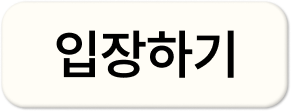
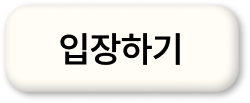
Design: Update auth and login assets, fix ListTile splash bug

Changed region(s): [[0.168, 0.2621, 0.812, 0.699], [0.0, 0.0583, 1.0, 0.9903], [0.924, 0.0291, 0.952, 0.0583]]

diff --git a/lib/screens/auth/family_group_list_screen.dart b/lib/screens/auth/family_group_list_screen.dart
@@ -90,18 +90,16 @@ class _FamilyGroupListScreenState extends State<FamilyGroupListScreen> {
                         child: SvgPicture.asset('assets/auth/family_group/group_box_1.svg', fit: BoxFit.fill),
                       ),
                       Positioned(
-                        right: 16 * wScale, // 오른쪽 여백 조절
+                        right: 20 * wScale,
                         child: GestureDetector(
                           onTap: () {
                             Navigator.push(context, MaterialPageRoute(builder: (_) => const GroupCreatedScreen()));
                           },
-                          // 버튼 크기를 키우시려면 아래 width와 height를 조절하세요.
-                          // 예: width: 100 * wScale, height: 42 * wScale
-                          child: SvgPicture.asset(
-                            'assets/auth/family_group/enter_text.svg', 
-                            width: 84 * wScale, 
-                            height: 35 * wScale,
-                            fit: BoxFit.fill, // 크기 변경 시 꽉 차게 늘어나도록 설정
+                          child: Image.asset(
+                            'assets/auth/family_group/enter_text.png', 
+                            width: 85 * wScale, 
+                            height: 85 * (112 / 292) * wScale, // 실제 PNG 비율(292x112)에 맞춰 높이 자동 계산 (약 32.2)
+                            fit: BoxFit.contain,
                           ),
                         ),
                       ),
@@ -133,8 +131,8 @@ class _FamilyGroupListScreenState extends State<FamilyGroupListScreen> {
                           },
                           child: Image.asset(
                             'assets/auth/family_group/enter_text.png', 
-                            width: 79 * wScale, 
-                            height: 79 * (112 / 292) * wScale, // 실제 PNG 비율(292x112)에 맞춰 높이 자동 계산 (약 32.2)
+                            width: 85 * wScale, 
+                            height: 85 * (112 / 292) * wScale, // 실제 PNG 비율(292x112)에 맞춰 높이 자동 계산 (약 32.2)
                             fit: BoxFit.contain,
                           ),
                         ),
@@ -196,7 +194,7 @@ class _FamilyGroupListScreenState extends State<FamilyGroupListScreen> {
                     
                     // 실제 텍스트 입력창 (투명)
                     Positioned(
-                      left: 20,
+                      left: 10,
                       right: 60 * wScale, // 우측에 확인 버튼이 있다고 가정하고 여백
                       bottom: 0 * wScale,
                       height: 48 * wScale,

diff --git a/lib/screens/profile/app_settings_screen.dart b/lib/screens/profile/app_settings_screen.dart
@@ -70,7 +70,6 @@ class _AppSettingsTile extends StatelessWidget {
     return Container(
       margin: const EdgeInsets.only(bottom: 10),
       decoration: BoxDecoration(
-        color: Colors.white,
         borderRadius: BorderRadius.circular(16),
         boxShadow: [
           BoxShadow(
@@ -80,7 +79,11 @@ class _AppSettingsTile extends StatelessWidget {
           ),
         ],
       ),
-      child: ListTile(
+      child: Material(
+        color: Colors.white,
+        borderRadius: BorderRadius.circular(16),
+        clipBehavior: Clip.antiAlias,
+        child: ListTile(
         contentPadding: const EdgeInsets.symmetric(horizontal: 16, vertical: 6),
         leading: CircleAvatar(
           backgroundColor: const Color(0xFFF0F5F1),
@@ -99,6 +102,7 @@ class _AppSettingsTile extends StatelessWidget {
         ),
         trailing: const Icon(Icons.chevron_right, color: Colors.black26),
         onTap: onTap,
+      ),
       ),
     );
   }

diff --git a/lib/screens/profile/profile_screen.dart b/lib/screens/profile/profile_screen.dart
@@ -282,7 +282,6 @@ class _SettingsTile extends StatelessWidget {
     return Container(
       margin: const EdgeInsets.only(bottom: 8),
       decoration: BoxDecoration(
-        color: Colors.white,
         borderRadius: BorderRadius.circular(14),
         boxShadow: [
           BoxShadow(
@@ -292,7 +291,11 @@ class _SettingsTile extends StatelessWidget {
           ),
         ],
       ),
-      child: ListTile(
+      child: Material(
+        color: Colors.white,
+        borderRadius: BorderRadius.circular(14),
+        clipBehavior: Clip.antiAlias,
+        child: ListTile(
         contentPadding: const EdgeInsets.symmetric(horizontal: 14, vertical: 2),
         leading: Icon(icon, color: Colors.black54),
         title: Text(
@@ -301,6 +304,7 @@ class _SettingsTile extends StatelessWidget {
         ),
         trailing: const Icon(Icons.chevron_right, color: Colors.black26),
         onTap: onTap,
+      ),
       ),
     );
   }

diff --git a/lib/screens/profile/visibility_settings_screen.dart b/lib/screens/profile/visibility_settings_screen.dart
@@ -96,11 +96,13 @@ class _RecordRow extends StatelessWidget {
     return Container(
       margin: const EdgeInsets.only(bottom: 8),
       padding: const EdgeInsets.symmetric(horizontal: 12, vertical: 4),
-      decoration: BoxDecoration(color: Colors.white, borderRadius: BorderRadius.circular(14), boxShadow: [
+      decoration: BoxDecoration(borderRadius: BorderRadius.circular(14), boxShadow: [
         BoxShadow(color: Colors.black.withValues(alpha: 0.04), blurRadius: 6, offset: const Offset(0, 2)),
       ]),
       child: Material(
-        color: Colors.transparent,
+        color: Colors.white,
+        borderRadius: BorderRadius.circular(14),
+        clipBehavior: Clip.antiAlias,
         child: ListTile(
           contentPadding: EdgeInsets.zero,
           leading: CircleAvatar(backgroundColor: iconColor.withValues(alpha: 0.15), child: Icon(icon, color: iconColor, size: 18)),

diff --git a/lib/screens/profile/app_info_screen.dart b/lib/screens/profile/app_info_screen.dart
@@ -137,7 +137,6 @@ class _InfoTile extends StatelessWidget {
     return Container(
       margin: const EdgeInsets.only(bottom: 10),
       decoration: BoxDecoration(
-        color: Colors.white,
         borderRadius: BorderRadius.circular(14),
         boxShadow: [
           BoxShadow(
@@ -147,7 +146,11 @@ class _InfoTile extends StatelessWidget {
           ),
         ],
       ),
-      child: ListTile(
+      child: Material(
+        color: Colors.white,
+        borderRadius: BorderRadius.circular(14),
+        clipBehavior: Clip.antiAlias,
+        child: ListTile(
         contentPadding: const EdgeInsets.symmetric(
           horizontal: 16,
           vertical: 3,
@@ -176,6 +179,7 @@ class _InfoTile extends StatelessWidget {
                 ),
               ),
         onTap: onTap,
+      ),
       ),
     );
   }

diff --git a/lib/screens/auth/login_screen.dart b/lib/screens/auth/login_screen.dart
@@ -175,7 +175,7 @@ class _SvgInputWidgetState extends State<_SvgInputWidget> {
             Align(
               alignment: Alignment.centerLeft,
               child: Padding(
-                padding: EdgeInsets.only(left: 5 * widget.wScale), // 안내 텍스트 조절 위치 패딩값 튜닝
+                padding: EdgeInsets.only(left: 18 * widget.wScale), // 안내 텍스트 조절 위치 패딩값 튜닝
                 child: Image.asset(widget.textAsset, width: widget.textWidth * widget.wScale, height: widget.textHeight * widget.wScale),
               ),
             ),
